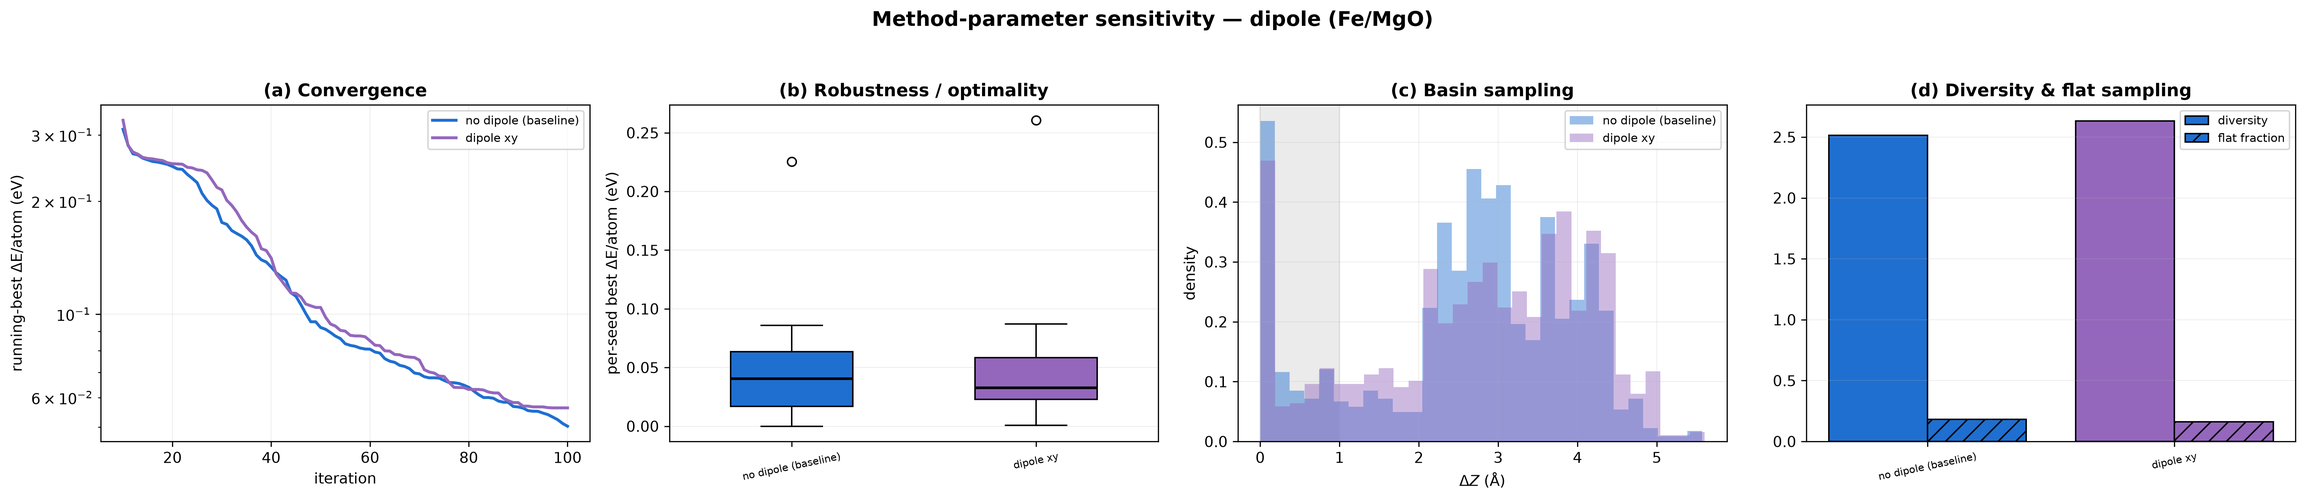
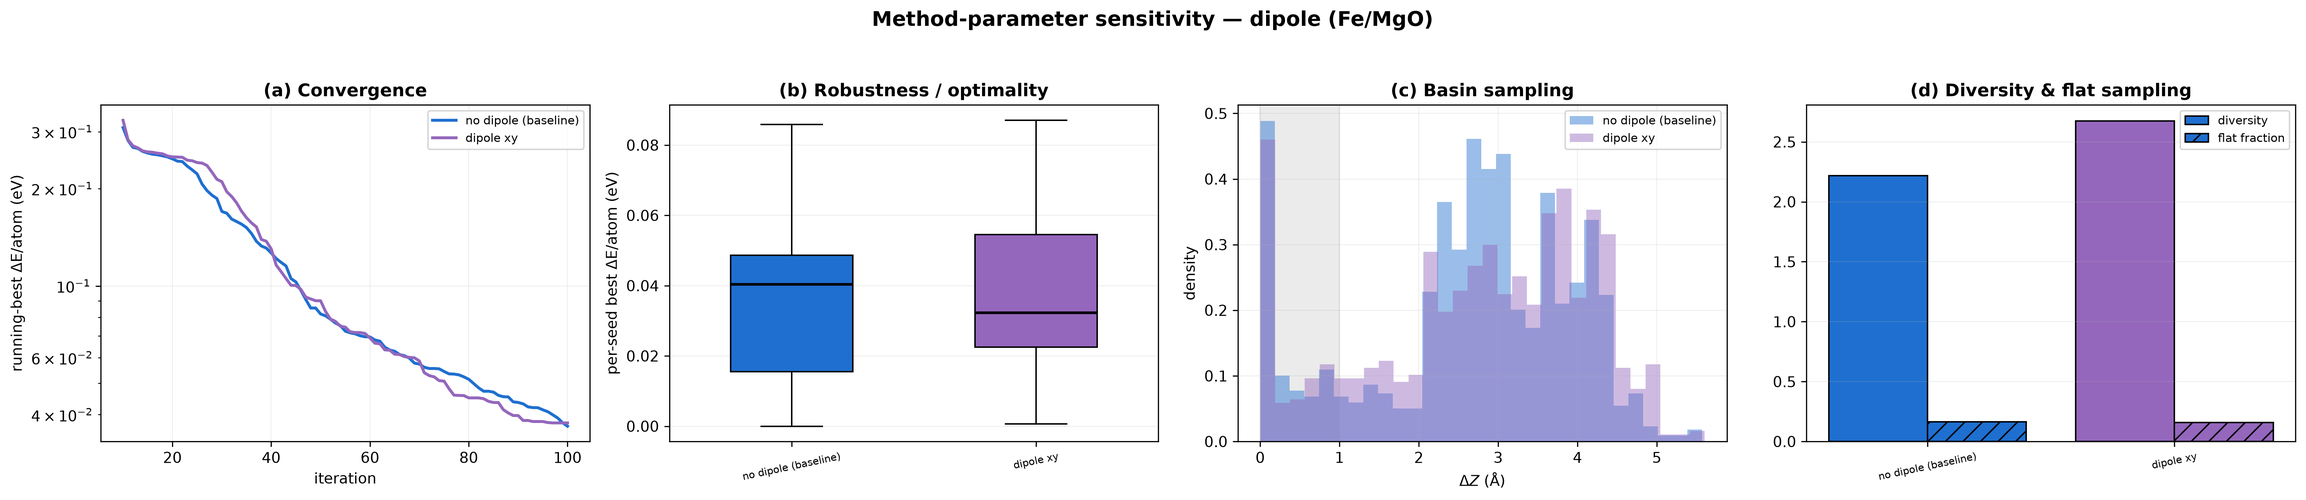
paperDemo: draft SI S3 on an equal-iteration statistic; CLAIMS v7
Scientist's decision: recompute on full searches only (equal iteration count) as the primary,
keep as-reported as a footnote, correct the SI-5/6/7 evidence cells, bump CLAIMS to v7, and
disclose the confound in the SI prose.

method_sensitivity.py: adds split_truncated() (a search is 'full' if iteration max >= 100),
writes BOTH variants to analysis/method_sensitivity.csv with a new 'variant' column, and prints
the excluded truncated searches per setting. Figures use the primary variant. The asreported
rows reproduce the previous CSV exactly, field for field - the change is additive.

Primary numbers (per-seed best dE/N, eV/atom): baseline (kappa=2, no dipole) 0.03683 +- 0.02575,
13 searches, flat 0.165; kappa=1 0.03947 (16); kappa=3 0.03509 (10); kappa=4 0.03209 (9);
dipole xy 0.03770 (11); rattle reduced-0.5 0.26073 (2 searches), flat 0.023; reduced-1.0
0.25583 (4), flat 0.017.

RETRACTED: 'Best: kappa = 1'. On the primary statistic all four kappa settings span
0.0321-0.0395 eV/atom (0.0074 total), far inside the SDs (0.019-0.026), so no kappa is
distinguishable from another. The old ranking came from the truncated stop_16 search sitting in
the baseline. SI-5's conclusion (robustness) holds; its ranking never existed.

SI-7 factor corrected ~5x -> ~7x (7.08x / 6.95x); direction and significance unchanged, but the
magnitude is weakly determined - the reduced-rattle arms retain only 2 and 4 full searches.
[…]

diff --git a/_paperDemo/scripts/method_sensitivity.py b/_paperDemo/scripts/method_sensitivity.py
@@ -15,6 +15,14 @@ Establishes BOTH:
 Metrics per setting: per-seed best dE/atom, running-best convergence, dZ/basin sampling
 (flat fraction), structural diversity (mean pairwise AGOX-Fingerprint distance).
 
+TRUNCATED SEARCHES: several runs were stopped early (iteration max < MIN_ITER).  A truncated
+search has had less search time, so its per-seed best is systematically worse, and because the
+truncation is NOT uniform across settings it biases the comparison between settings.  Two
+variants are therefore computed for every setting and both are written to the CSV:
+  variant='full'       - primary: only searches that reached MIN_ITER (equal iteration count)
+  variant='asreported' - every search found, as originally reported
+The figures use the primary ('full') variant.
+
 NOTE ON DIPOLE: the two dipole runs are SEPARATE searches, so their E_min difference mixes
 the dipole correction with sampling differences. This comparison is outcome-level only; a
 clean isolation of the dipole energy shift would need the same structures recomputed
@@ -34,6 +42,26 @@ from agox.environments import Environment
 METAL = ('Fe', 'Co')
 DIV_N = 200
 BASELINE = 'data/femgo'
+MIN_ITER = 100          # a search is "full" if it reached this iteration
+
+
+def split_truncated(recs, min_iter=MIN_ITER):
+    """Split records into the full searches and the truncated ones.
+
+    Some runs were stopped early (iteration max < MIN_ITER).  A truncated search has had less
+    search time than a full one, so its per-seed best is systematically worse and it inflates
+    the mean and SD of whichever setting it belongs to.  The truncation is not uniform across
+    settings, so including it biases the comparison between settings; the primary statistic
+    therefore uses full searches only (equal iteration count for every setting), and the
+    as-reported variant over all searches is kept alongside for transparency.
+    """
+    mx = {}
+    for r in recs:
+        mx[r['seed']] = max(mx.get(r['seed'], 0), r['iteration'])
+    full_seeds = {s for s, m in mx.items() if m >= min_iter}
+    return [r for r in recs if r['seed'] in full_seeds], \
+           {s: m for s, m in mx.items() if m < min_iter}
+
 
 FAMILIES = {
     'rattle': [
@@ -122,16 +150,31 @@ def main():
     print(f"overall gmin = {gmin:.3f} eV\n")
 
     all_rows = []
+    print(f'full searches = iteration max >= {MIN_ITER}\n')
     for fam, settings in FAMILIES.items():
         print(f"=== {fam} ===")
         M = {}
         for name, root, col in settings:
-            m = metrics(cache[root], gmin); M[name] = m
-            all_rows.append([fam, name, m['n'], m['n_seeds'], f"{m['seedbest'].mean():.5f}",
-                             f"{m['seedbest'].std():.5f}", f"{m['flat']:.3f}", f"{m['div']:.3f}"])
-            print(f"  {name:24s} n={m['n']:5d} seeds={m['n_seeds']:2d} "
-                  f"per-seed best={m['seedbest'].mean():.4f}±{m['seedbest'].std():.4f} eV/at  "
-                  f"flat={m['flat']:.3f}  div={m['div']:.2f}")
+            recs = cache[root]
+            full, trunc = split_truncated(recs)
+            m_full = metrics(full, gmin)          # primary: equal iteration count
+            m_all = metrics(recs, gmin)           # as-reported: every search
+            M[name] = m_full                      # figures use the primary variant
+            for variant, m in (('full', m_full), ('asreported', m_all)):
+                all_rows.append([fam, name, variant, m['n'], m['n_seeds'],
+                                 f"{m['seedbest'].mean():.5f}", f"{m['seedbest'].std():.5f}",
+                                 f"{m['flat']:.3f}", f"{m['div']:.3f}"])
+            print(f"  {name:24s} FULL  n={m_full['n']:5d} seeds={m_full['n_seeds']:2d} "
+                  f"per-seed best={m_full['seedbest'].mean():.5f}"
+                  f"+-{m_full['seedbest'].std():.5f} eV/at  flat={m_full['flat']:.3f}  "
+                  f"div={m_full['div']:.2f}")
+            print(f"  {'':24s} all   n={m_all['n']:5d} seeds={m_all['n_seeds']:2d} "
+                  f"per-seed best={m_all['seedbest'].mean():.5f}"
+                  f"+-{m_all['seedbest'].std():.5f} eV/at  flat={m_all['flat']:.3f}  "
+                  f"div={m_all['div']:.2f}")
+            if trunc:
+                print(f"  {'':24s} TRUNCATED (excluded from FULL): "
+                      + ', '.join(f'{s} @{m}' for s, m in sorted(trunc.items())))
 
         # figure 1x4
         fig, axes = plt.subplots(1, 4, figsize=(22, 4.8))
@@ -175,8 +218,9 @@ def main():
 
     with open('analysis/method_sensitivity.csv', 'w', newline='') as f:
         w = csv.writer(f)
-        w.writerow(['family','setting','n_structures','n_seeds','per_seed_best_dE_at_mean',
-                    'per_seed_best_dE_at_sd','flat_fraction','fingerprint_diversity'])
+        w.writerow(['family','setting','variant','n_structures','n_seeds',
+                    'per_seed_best_dE_at_mean','per_seed_best_dE_at_sd','flat_fraction',
+                    'fingerprint_diversity'])
         w.writerows(all_rows)
     print('wrote analysis/method_sensitivity.csv')
 

diff --git a/_paperDemo/sections/SI.md b/_paperDemo/sections/SI.md
@@ -1,7 +1,7 @@
 # Supplementary Material
 
 <!-- DRAFT v1 · supplementary document (markdown-first, pre-LaTeX)
-     Grounded in CLAIMS.md v6. Planned structure:
+     Grounded in CLAIMS.md v7. Planned structure:
        S1  Performance of the biased exploration in finding the global minimum  [drafted here]
        S2  PDOS — origin of island formation (flat vs island)   [documented in experiment_log.md]
        S3  Method-parameter sensitivity (rattle / kappa / dipole) [documented in experiment_log.md]
@@ -11,11 +11,11 @@
      interfacial coupling plus restored metal cohesion — NOT lattice-strain relief; the
      Fe-atop-O registry is inherited from the reference construction and is a consistency
      check, not a search prediction). Claims SI-1 … SI-4.
-     S3 NOT drafted — blocked on a data-integrity finding: every sensitivity family except
-     kappa=1 contains truncated searches (iteration max < 100) whose per-seed best is a
-     severe outlier (0.23-0.35 eV/atom vs ~0.03-0.09), which inflates the mean and SD of the
-     family it sits in, and the contamination is not uniform across settings (see
-     experiment_log.md, "Truncated searches in the method-sensitivity families"). -->
+     S3 drafted 2026-09-17. Claims SI-5 (kappa), SI-6 (dipole), SI-7 (rattle).
+     The primary sensitivity statistic uses searches of equal length (reaching iteration 100);
+     the as-reported variant is retained in the CSV (column `variant`). See CLAIMS v7 — the
+     truncated searches in these families biased the original comparison, and "kappa = 1 is
+     best" was retracted as an artefact. -->
 
 ## S1 Performance of the biased exploration in finding the global minimum
 
@@ -167,3 +167,93 @@ quantitative claim would require re-relaxed geometries. The d-band moments depen
 [−5, +3] eV window, which is a convention. The analysis is for Fe/MgO only; the other three models
 were not recomputed. `analysis/pdos_site_metrics.csv` and `figures/pdos_sites.png` come from the
 superseded bottom-8/top-8 split and should not be used; Table S2 supersedes them.
+
+## S3 Method-parameter sensitivity of the biased exploration
+
+The search used here is a custom, biased scheme — GOFEE (a GPR surrogate with an LCB acquisition
+function) seeded from a flat Fe reference layer, with `HeteroStructRandomize` and
+`RattleGenerator` supplying the perturbation. Here we vary **three method parameters** on the same
+Fe25Mg25O25 system and ask whether the method's conclusions survive the choice: is the island
+still the ground state, how far does a single search reach, and is the flat/island basin picture
+preserved. The baseline for every family is the plain Fe/MgO run (rattle 1.5/2.3, kappa = 2, no
+dipole correction). Energies are per-seed best ΔE/N relative to the lowest energy found in any of
+these runs, −436.909 eV.
+
+**The primary statistic uses searches of equal length.** A first pass counted every search found
+under each run directory, which included several that had been **stopped early**. A short search
+has had less time to descend, so its per-seed best is systematically worse — every truncated
+search in this set is a severe outlier (0.23–0.35 eV/atom, against ~0.03–0.09 for full searches) —
+and because the truncation is **not uniform across settings** it distorts the comparison between
+them. Counting one truncated search in the baseline alone moves it from
+0.0368 ± 0.0258 to 0.0503 ± 0.0545 eV/atom, a 27 % shift in the mean and roughly a doubling of the
+standard deviation. The primary numbers below therefore use **only searches that reached iteration
+100**, giving every setting the same search time; the as-reported values over all searches are
+quoted wherever they differ, and both variants are recorded in the same file
+(`analysis/method_sensitivity.csv`, column `variant`). A side effect worth noting: the primary
+baseline is **13 searches**, matching the main text and §S1, whereas the as-reported baseline
+counted 14.
+
+**Table S3.** Method-parameter sensitivity, primary statistic (searches reaching iteration 100).
+*[SI-5, SI-6, SI-7]*
+
+| Family | Setting | Searches | per-seed best (eV/atom) | Flat fraction | Diversity |
+|---|---|---|---|---|---|
+| rattle | baseline (1.5 / 2.3) | 13 | **0.03683 ± 0.02575** | 0.165 | 2.22 |
+| rattle | reduced-0.5 (1.0 / 1.8) | 2 | **0.26073 ± 0.06804** | 0.023 | 3.74 |
+| rattle | reduced-1.0 (0.5 / 1.3) | 4 | **0.25583 ± 0.13287** | 0.017 | 4.33 |
+| kappa | kappa = 2 (baseline) | 13 | 0.03683 ± 0.02575 | 0.165 | 2.22 |
+| kappa | kappa = 1 | 16 | 0.03947 ± 0.02371 | 0.182 | 2.36 |
+| kappa | kappa = 3 | 10 | 0.03509 ± 0.02182 | 0.149 | 2.65 |
+| kappa | kappa = 4 | 9 | 0.03209 ± 0.01872 | 0.132 | 2.68 |
+| dipole | no dipole (baseline) | 13 | 0.03683 ± 0.02575 | 0.165 | 2.22 |
+| dipole | dipole xy | 11 | 0.03770 ± 0.02436 | 0.158 | 2.67 |
+
+**Figure S4.** `figures/method_sensitivity_rattle.png` — convergence, per-seed best, basin sampling
+and diversity for the rattle-strength family (four panels).
+
+**Figure S5.** `figures/method_sensitivity_kappa.png` — the same four panels for the kappa family.
+
+**Figure S6.** `figures/method_sensitivity_dipole.png` — the same four panels for the dipole family.
+
+**Reducing the rattle strength degrades the search by about 7×.** *[SI-7]* Cutting the
+`HeteroStructRandomize` / `RattleGenerator` amplitudes roughly in half raises the per-seed best
+from **0.0368 to 0.2607 / 0.2558 eV/atom** — a factor of **7.1 and 7.0** — and the flat-basin
+fraction collapses from **0.165 to 0.023 / 0.017**. Reducing the perturbation is therefore not a
+cheaper equivalent of the baseline: the rattle is what makes the search escape the initial region
+and reach the low-energy basin at all, and less of it leaves the search sampling almost exclusively
+the island side. The as-reported values tell the same story with a smaller factor
+(0.0503 → 0.2902 / 0.2740, i.e. ~5×), because the truncated searches in the reduced-rattle arms
+also depress those arms. **The magnitude here is weakly determined** — after excluding truncated
+runs the two reduced-rattle arms keep only 2 and 4 searches — so the factor should be read as
+"about an order of magnitude", not as a calibrated ratio. The direction is not in doubt: every arm
+of the sweep is worse than the baseline, and the flat basin is under-sampled by an order of
+magnitude in the flat fraction.
+
+**The kappa parameter changes nothing measurable.** *[SI-5]* All four settings land within
+**0.0321–0.0395 eV/atom** — a total span of 0.0074 eV/atom, far inside the standard deviations
+(0.019–0.026) — so the method's conclusions are **robust to the acquisition parameter**, and in
+particular **no value of kappa can be identified as better than another** from these runs. This is
+worth stating explicitly, because an earlier reading of the same data singled out kappa = 1 as the
+best setting; that ranking came from a truncated search sitting in the baseline rather than from
+any property of kappa = 1, and it does not survive the equal-iteration statistic. There is a small,
+monotone trend in the flat-basin fraction — 0.182, 0.165, 0.149 and 0.132 for kappa = 1, 2, 3 and 4
+— i.e. more exploration relative to exploitation samples slightly less of the flat basin, but the
+effect is within the same order as the seed-to-seed spread.
+
+**The dipole correction does not change the outcome.** *[SI-6]* The per-seed best moves from
+0.03683 ± 0.02575 to 0.03770 ± 0.02436 eV/atom, a difference of 0.0009 eV/atom — an order of
+magnitude smaller than the standard deviation. On the primary statistic the comparison is cleaner
+than the as-reported one (0.0503 → 0.0563), which again reflects the truncated baseline search
+rather than the dipole correction. **Caveat:** these are two *separate* searches, so the difference
+mixes the correction with sampling noise. This is an outcome-level comparison only; isolating the
+dipole energy shift would require recomputing the *same* structures with and without the
+correction, which was not done.
+
+**Caveats for the whole study.** Seed counts are unequal (13 / 2 / 4 for rattle, 13 / 16 / 10 / 9
+for kappa, 13 / 11 for dipole), and the truncated-search exclusion is disclosed above. The rattle
+sweep explores only *lower* rattle — there is no higher-rattle arm, so this is not a maximum and
+the baseline should not be read as an optimum. "Diversity" (the mean pairwise AGOX-Fingerprint
+distance) is **inversely correlated with convergence** — a better-converged population is more
+concentrated — so it is not interpreted as exploration breadth. The kappa directories contain a
+scratch `trash/` database of 41 Fe9Mg9O9 structures, which the loader excludes by skipping `trash/`
+and filtering to the target composition; the rattle and dipole directories are clean.

diff --git a/_paperDemo/CLAIMS.md b/_paperDemo/CLAIMS.md
@@ -1,7 +1,34 @@
-# CLAIMS.md — FROZEN claim list (v6)
+# CLAIMS.md — FROZEN claim list (v7)
 
-**Status: FROZEN (v6, 2026-09-17).** Supersedes v5, v4, v3, v2 and v1.
+**Status: FROZEN (v7, 2026-09-17).** Supersedes v6, v5, v4, v3, v2 and v1.
 **Project:** `_paperDemo` · **Venue:** TBD (format-agnostic)
+
+## v7 changelog (2026-09-17) — truncated searches in the sensitivity families
+
+**Finding.** `method_sensitivity.load_setting` counts every non-trash db under a family root,
+which includes searches that were **stopped early** (iteration max < 100). Every family except
+`kappa=1` contains at least one, and each truncated search has the **worst** per-seed best by a
+wide margin (0.23–0.35 eV/atom vs ~0.03–0.09 for full searches), so it inflates the mean and SD
+of whichever setting it belongs to. The truncation is **not uniform across settings**, so it
+biased the comparison: the baseline reads 0.0503 ± 0.0545 over all searches but 0.0368 ± 0.0258
+over full searches alone (+27 % and ~2× the SD from one truncated run).
+
+**Resolution.** The primary statistic is now **equal-iteration (full searches only)**; the
+as-reported variant is retained alongside in the same CSV (`variant` column) and the figures use
+the primary. Evidence cells for SI-5, SI-6 and SI-7 restated accordingly. No conclusion reverses,
+but two statements do not survive:
+
+- **"kappa = 1 is the best setting" is RETRACTED.** It was an artefact of `kappa=1` being the only
+  family with no truncated outlier. On the primary statistic the four settings span
+  0.0321–0.0395 eV/atom — 0.0074 eV/atom, far inside the SDs (0.019–0.026) — so **no kappa is
+  distinguishable from another**. SI-5's conclusion (robustness) holds; its ranking does not exist.
+- **The rattle degradation is ~7×, not ~5×** on the primary statistic (0.03683 → 0.26073 / 0.25583).
+  Direction and significance are unchanged.
+- SI-6 is unaffected in substance and cleaner on the primary statistic (difference 0.0009 eV/atom).
+
+**Seed accounting.** The sensitivity baseline's "14 seeds" is **13 full searches + the truncated
+`stop_16`**; the main text and SI §S1 use **13**. The primary `variant=full` baseline is
+therefore 13 seeds, consistent with the rest of the paper.
 
 ## v6 changelog (2026-09-17) — executes the decisions held in the v5 "PENDING v6" block
 
@@ -152,9 +179,9 @@ number of distinct structures.
 | **SI-2** | Islanding **weakens magnetism and lowers DOS(E_F)** | spin pol 5.81 → 4.37; DOS(E_F) 104.0 → 78.1 | `analysis/pdos_metrics.csv` | moderate |
 | **SI-3** *(restated v6)* | The island's **true interface Fe are NOT flat-like** → the island's gain is **reduced forced interfacial coupling plus restored metal cohesion**, **not** lattice-strain relief | island interface d-centre +0.51 eV vs flat −0.23 eV; registry-locked atoms 25/25 → 9/25. The ~equal d_Fe-O (2.33 vs 2.30 Å) follows from the 2.3 Å construction parameter surviving relaxation, so it is **not** evidence about the method | `analysis/interface_analysis.csv` | moderate |
 | **SI-4** *(reframed v6)* | **Fe sits directly atop O** at the interface — a property of the **reference construction** that agrees with the measured registry: a **consistency check**, not a search prediction | 25/25 (flat) and 9/9 (island) atop O; 0 atop Mg (flat offset 0.000 Å); `build_mgo_stack` places substrate O above the metal sites | `analysis/interface_analysis.csv` | strong (structural) |
-| **SI-5** | The result is **robust to the LCB kappa** | per-seed best 0.039–0.056 eV/atom across kappa ∈ {1,2,3,4} | `analysis/method_sensitivity.csv` | strong |
-| **SI-6** | The result is **robust to the dipole correction** | per-seed best 0.050 → 0.056 eV/atom (within seed spread) | `analysis/method_sensitivity.csv` | weak (outcome-level only) |
-| **SI-7** | **Reducing the rattle strength degrades the search ~5×** and under-samples the flat basin | per-seed best 0.050 → 0.27–0.29 eV/atom; flat fraction 0.181 → 0.030/0.015 | `analysis/method_sensitivity.csv` | strong |
+| **SI-5** *(evidence restated v7)* | The result is **robust to the LCB kappa** — and **no setting is distinguishable from another** | per-seed best **0.0321–0.0395 eV/atom** across kappa ∈ {1,2,3,4} (primary, equal-iteration: only searches that reached 100 iterations); the whole range spans 0.0074 eV/atom, far inside the SDs (0.019–0.026), so **no kappa is identified as best**. As-reported, with truncated searches included: 0.039–0.056 | `analysis/method_sensitivity.csv` (`variant=full`) | strong |
+| **SI-6** | The result is **robust to the dipole correction** | per-seed best **0.03683 ± 0.02575** (no dipole) → **0.03770 ± 0.02436** (dipole xy) — a difference of 0.0009 eV/atom, far inside the SD (primary, equal-iteration). As-reported: 0.050 → 0.056 | `analysis/method_sensitivity.csv` (`variant=full`) | weak (outcome-level only) |
+| **SI-7** *(evidence restated v7)* | **Reducing the rattle strength degrades the search ~7×** and under-samples the flat basin | per-seed best **0.03683 ± 0.02575 → 0.26073 / 0.25583 eV/atom (7.1× / 7.0×)**; flat fraction **0.165 → 0.023 / 0.017** (primary, equal-iteration). As-reported: 0.050 → 0.27–0.29, flat 0.181 → 0.030/0.015. **Caveat:** the reduced-rattle arms retain only **2 and 4** full searches after excluding truncated runs | `analysis/method_sensitivity.csv` (`variant=full`) | strong (direction), weak (magnitude — arms of n = 2 and 4) |
 | **SI-8** *(v4; signed off 2026-09-17)* | **The onset of relaxation is the pivot of the biased search**: the pre-relaxation iterations provide almost no ranking information, and roughly half the total descent occurs at the first relaxed iteration | best-known ΔE/N: 0.494 (i=1) → 0.435 (i=9; 12 % of the descent) → **0.250 (i=10; 49 %)**; per-search drop across the onset median 0.165 (range 0.084–0.233) eV/atom; 84 % of the descent by i=30, 94 % by i=50; global minimum first reached at i=77; 10 of 13 searches end within 0.05 eV/atom of it, 4 within 0.02 | `analysis/exploration_performance.json` | strong (Fe/MgO only) |
 
 **Paired caveat for SI-8 (must travel with the claim).** Fe/MgO only, and the quantities are
@@ -227,6 +254,12 @@ remains a *method-quality* claim on Fe/MgO only.
   consistency check, not an independent prediction by the search.
 - ΔZ ≤ 1.0 Å flat cutoff is a chosen threshold.
 - kpts = (1,1,1), single-layer slabs → qualitative/trend-level.
+- **Sensitivity families contain truncated searches (v7):** several runs were stopped early
+  (iteration max 11–90 vs 100 for a full search) and their per-seed best is systematically worse,
+  and the truncation is not uniform across settings. The primary statistic therefore uses full
+  searches only (equal iteration count); the as-reported variant is retained in the CSV. The
+  reduced-rattle arms retain only **2 and 4** full searches, so their magnitudes are weak even
+  though the direction is clear.
 
 ---
 
@@ -288,5 +321,7 @@ v3 (2026-09-17) MT-8 added, MT-4 flagged challenged, exploration-density princip
 v4 (2026-09-17) SI-8 added · v5 (2026-09-17) lattice-model + basis-set limitations,
 experimental-correspondence framing, six verified Fe/MgO references · v6 (2026-09-17) SI-3
 restated (strain relief dropped for reduced forced coupling + restored metal cohesion),
-SI-4 reframed as a consistency check, strain-convention limitation added, torelli2009
-added to the experimental-correspondence evidence.
+SI-4 reframed as a consistency check, strain-convention limitation added, torelii2009
+added to the experimental-correspondence evidence · v7 (2026-09-17) truncated searches found in
+the method-sensitivity families; SI-5/6/7 evidence cells restated on an equal-iteration primary
+statistic; "kappa = 1 is best" retracted; rattle factor 5× → 7×.

diff --git a/_paperDemo/experiment_log.md b/_paperDemo/experiment_log.md
@@ -883,3 +883,40 @@ with the common-budget comparison alongside.
 
 Probes added: `scripts/probe_stop16_bias.py`, `scripts/probe_family_seeds.py`,
 `scripts/probe_truncation_effect.py`.
+
+## S3 drafted on an equal-iteration statistic; CLAIMS v7 (2026-09-17)
+
+Scientist's decision on the truncation finding: recompute on **full searches only** (equal
+iteration count) as the primary, keep the as-reported values as a footnote, correct the SI-5/6/7
+evidence cells, and bump CLAIMS to v7. Also: the confound is disclosed in the SI prose, not only
+in the log.
+
+- **`scripts/method_sensitivity.py`** now computes both variants via `split_truncated()` (a search
+  is "full" if its iteration max >= `MIN_ITER` = 100), writes **both** to
+  `analysis/method_sensitivity.csv` with a new `variant` column, and prints the excluded truncated
+  searches for each setting. The figures use the primary variant. **The `asreported` rows
+  reproduce the previous CSV exactly**, field by field — the change is additive, not a
+  redefinition of the old numbers.
+- **Primary numbers** (per-seed best dE/N, eV/atom): baseline (kappa=2, no dipole)
+  **0.03683 +- 0.02575**, 13 searches, flat 0.165, div 2.22; kappa=1 0.03947 +- 0.02371 (16);
+  kappa=3 0.03509 +- 0.02182 (10); kappa=4 0.03209 +- 0.01872 (9); dipole xy 0.03770 +- 0.02436
+  (11); rattle reduced-0.5 0.26073 +- 0.06804 (**2** searches), flat 0.023; rattle reduced-1.0
+  0.25583 +- 0.13287 (4), flat 0.017.
+- **RETRACTED: "Best: kappa = 1".** On the primary statistic all four kappa settings span
+  0.0321-0.0395 eV/atom (0.0074 total), far inside the SDs (0.019-0.026), so **no kappa is
+  distinguishable from another**. The old ranking came from the truncated `stop_16` search sitting
+  in the baseline, not from any property of kappa=1. SI-5's conclusion (robustness to kappa) holds;
+  its ranking never existed.
+- **SI-7 factor corrected: ~5x -> ~7x** (0.03683 -> 0.26073 / 0.25583 = 7.08x / 6.95x), flat
+  fraction 0.165 -> 0.023 / 0.017. Direction and significance unchanged. Caveat recorded: the
+  reduced-rattle arms retain only 2 and 4 full searches, so the **magnitude** is weakly determined.
+- **SI-6 unchanged in substance** and cleaner on the primary statistic: 0.03683 +- 0.02575 vs
+  0.03770 +- 0.02436, a difference of 0.0009 eV/atom.
+- **Seed accounting:** the primary baseline is **13** searches, matching the main text and S1; the
+  as-reported baseline counted 14 (13 + truncated `stop_16`).
+- **`sections/SI.md`** gained **S3** with Table S3 (all nine settings, primary variant) and Figures
+  S4/S5/S6; the truncation confound is stated in the section, together with the seed accounting.
+  All 20 numbers in S3 were verified against the CSV.
+- **`CLAIMS.md` -> v7**: SI-5/SI-6/SI-7 evidence cells restated on the primary variant, the
+  retraction recorded, the truncated-search limitation added, version history updated.
+  `paper_status.md` and `AGENTS.md` moved to v7; all four section headers moved to v7.

diff --git a/_paperDemo/AGENTS.md b/_paperDemo/AGENTS.md
@@ -55,7 +55,7 @@ hosts (MTJ / CoFeB relevance)
   unsupported statements.
 - Every number in the draft must be re-verified against its raw source file before port.
 - Flag any claim without evidence as `[VERIFY]`; do not write it as a result.
-- **The claim list is FROZEN in `CLAIMS.md` v6 (2026-09-17; supersedes v1–v5).** v2 withdrew
+- **The claim list is FROZEN in `CLAIMS.md` v7 (2026-09-17; supersedes v1–v6).** v2 withdrew
   MT-6 (flat-basin sampling fraction — a biased-exploration weight, and the exploration operator
   is not matched across systems: Fe-Co alone uses a third, species-permutation generator). v3
   added MT-8 (each branch's low-energy structures form a few recurring motifs; ΔZ continuous),
@@ -67,7 +67,9 @@ hosts (MTJ / CoFeB relevance)
   from the construction and is a consistency check, not a search prediction), and added the
   inverse-strain-convention limitation.** Drafting must not introduce claims outside the list, and
   must not drop the paired caveats. Any new claim requires bumping `CLAIMS.md` to the next version
-  first.
+  first. **v7 restated the method-sensitivity claims (SI-5/6/7) on an equal-iteration statistic: the
+  families contained searches that stopped early, whose per-seed best is systematically worse, and the
+  truncation was not uniform across settings.**
 
 ## Drafting status
 

diff --git a/_paperDemo/sections/02_results.md b/_paperDemo/sections/02_results.md
@@ -5,7 +5,7 @@
      Co/B/CoB are the parameter series, and the biased search yields an EXPLORATION density
      over the flat (wetting) and island (dewetting) phases — not a thermodynamic DoS, so the
      weights are not physical. Organized by phase, not by additive.
-     Grounded in CLAIMS.md v6. MT-6 is WITHDRAWN and no flat-fraction comparison appears here;
+     Grounded in CLAIMS.md v7. MT-6 is WITHDRAWN and no flat-fraction comparison appears here;
      MT-8 is claimed in §2.1; MT-4 is reported as a trend (flagged CHALLENGED in CLAIMS v3, still
      flagged in v6).
      Every number traces to analysis/pes_structures.csv or analysis/ensemble_stats.json. -->

diff --git a/_paperDemo/sections/01_methods.md b/_paperDemo/sections/01_methods.md
@@ -1,7 +1,7 @@
 # 01 — Methods
 
 <!-- DRAFT v3 · section 01 of the manuscript (markdown-first, pre-LaTeX)
-     Grounded in CLAIMS.md v6. Citations verified and in references.bib
+     Grounded in CLAIMS.md v7. Citations verified and in references.bib
      (Phase D done for this section). -->
 <!-- v3 (2026-09-17): exploration schedule stated per model (§1.2) — Fe-Co uses a third,
      species-permutation generator; seed count corrected 7 -> 6; reference-layer composition

diff --git a/_paperDemo/sections/03_discussion.md b/_paperDemo/sections/03_discussion.md
@@ -1,7 +1,7 @@
 # 03 — Discussion
 
 <!-- DRAFT v3 · section 03 of the manuscript (markdown-first, pre-LaTeX)
-     Grounded in CLAIMS.md v6. All \cite{} keys resolve against references.bib; the three
+     Grounded in CLAIMS.md v7. All \cite{} keys resolve against references.bib; the three
      MTJ placeholders were replaced by yuasa2004 (verified) when the CoFeB-specific
      assertions were dropped. -->
 
